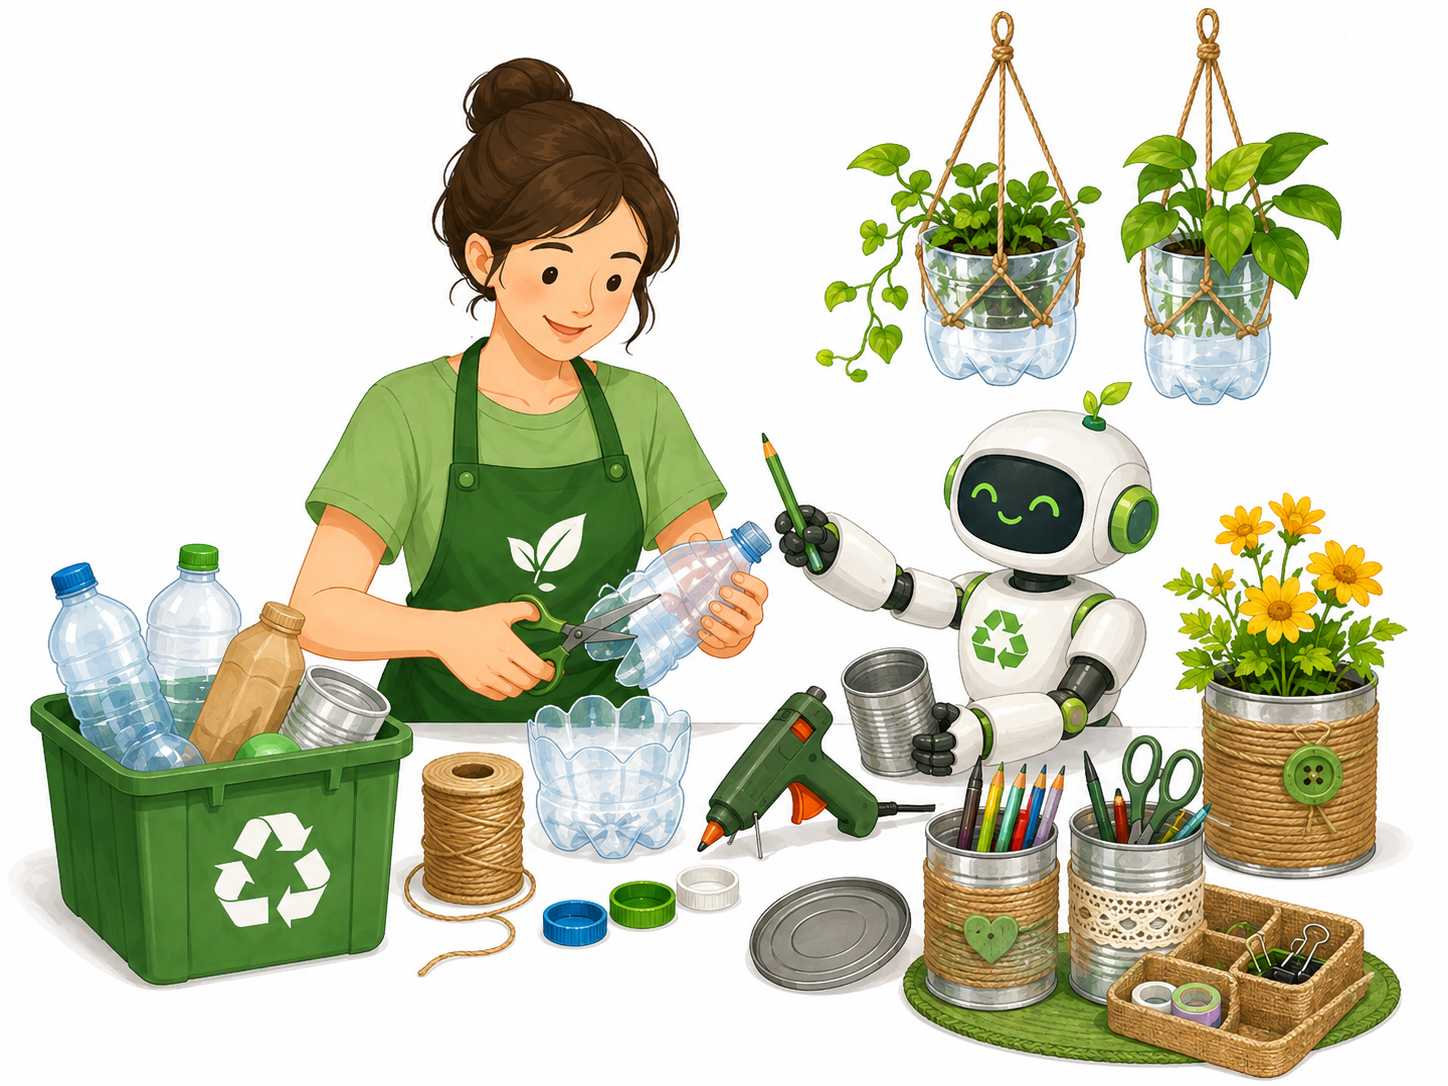
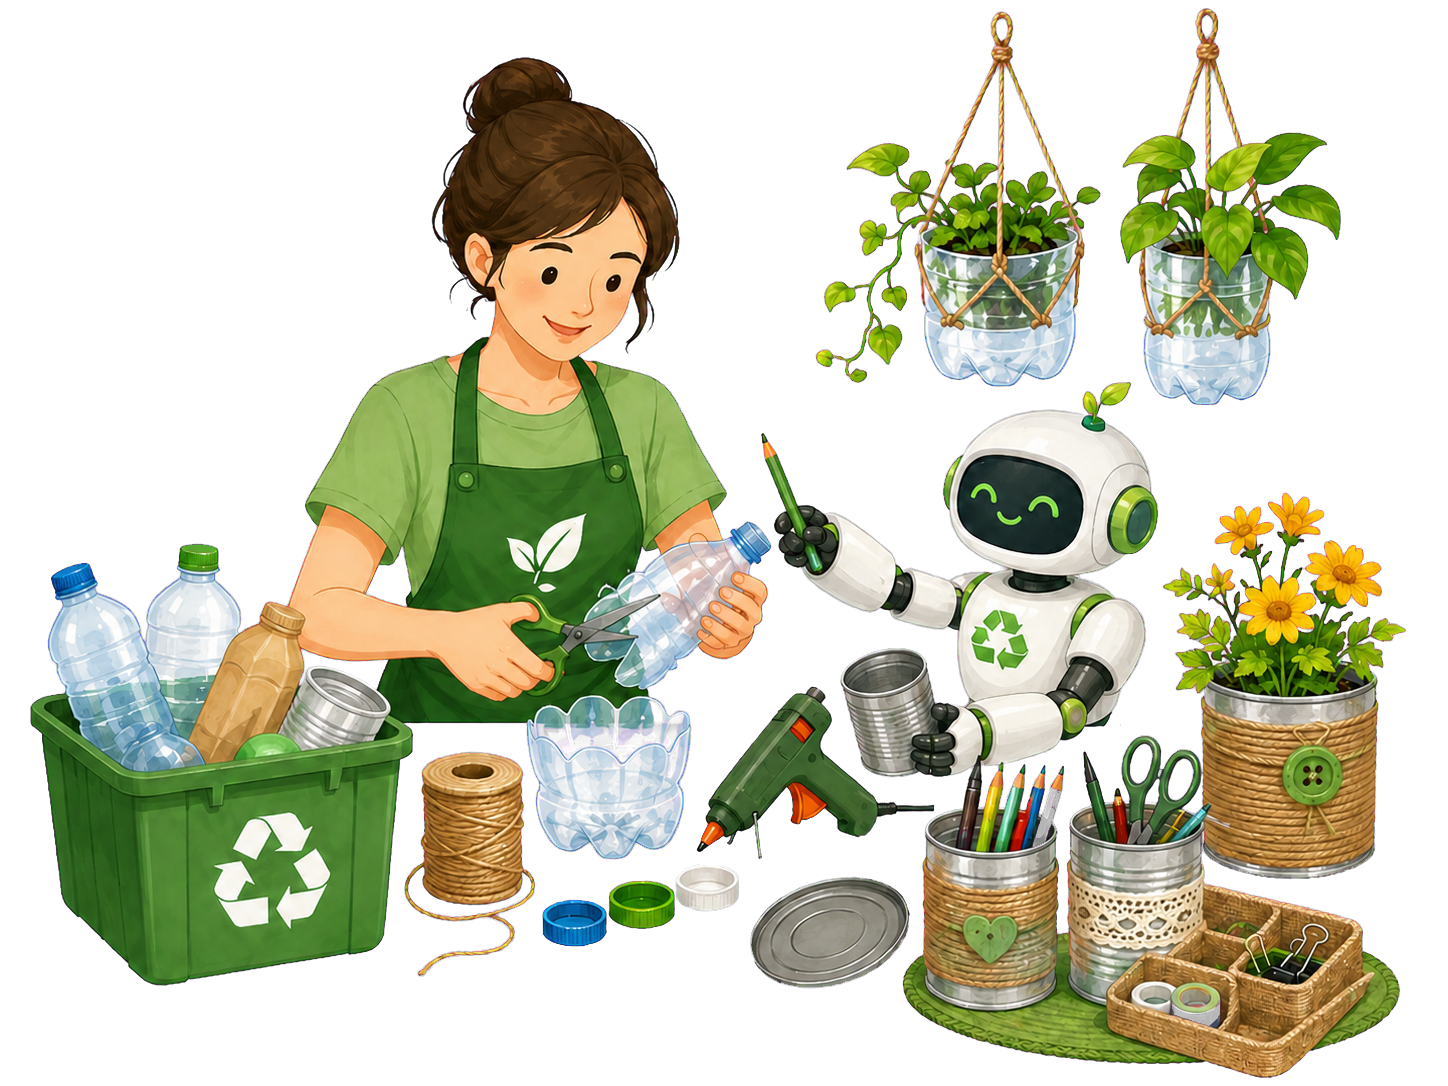
feat(ui): redesign scan tab button and refine upload/tutorial layouts
- tab bar: scan button overflows above bar, forwards pressable props
- upload screen: cover image extends past top, bottom art translateY 72,
  choice buttons flex-fix, sheet radius tweaks
- root layout: register missing Inter font weights
- types: allow tabBarItemStyle in expo-router options
- refresh upload bottom background images

diff --git a/app/scan/upload.tsx b/app/scan/upload.tsx
@@ -121,7 +121,13 @@ export default function UploadScreen() {
           source={require("../../assets/images/upload-screen-bg.png")}
           resizeMode="cover"
           accessibilityIgnoresInvertColors
-          style={{ position: "absolute", top: -128, left: 0, width: "100%", height: screenHeight }}
+          style={{
+            position: "absolute",
+            top: -128,
+            left: 0,
+            width: "100%",
+            height: screenHeight + 128,
+          }}
         />
         {!image ? (
           <Image
@@ -148,7 +154,7 @@ export default function UploadScreen() {
               bottom: 0,
               width: "94%",
               height: screenWidth * 0.94 * (941 / 1672),
-              transform: [{ translateY: 40 }],
+              transform: [{ translateY: 72 }],
             }}
           />
         ) : null}
@@ -300,45 +306,59 @@ export default function UploadScreen() {
                   { mode: "camera" as const, label: "Kamera", caption: "Ambil foto sekarang", icon: Camera },
                   { mode: "gallery" as const, label: "Galeri", caption: "Pilih dari galeri", icon: ImageIcon },
                 ].map((option) => (
-                  <PressableScale
+                  <View
                     key={option.mode}
-                    onPress={() => pickImage(option.mode)}
-                    accessibilityLabel={option.mode === "camera" ? "Ambil foto dengan kamera" : "Pilih foto dari galeri"}
-                    style={{
-                      flex: 1,
-                      height: 136,
-                      borderRadius: 22,
-                      borderCurve: "continuous",
-                      alignItems: "center",
-                      justifyContent: "center",
-                      gap: 8,
-                      backgroundColor: "rgba(42,94,55,0.92)",
-                      ...gradientStyle(gradients.uploadChoice),
-                      borderWidth: 1,
-                      borderColor: "rgba(205,239,146,0.43)",
-                      boxShadow: "inset 0 1px 0 rgba(243,255,221,0.12), 0 7px 15px rgba(7,39,21,0.2)",
-                    }}
+                    style={{ flex: 1, flexBasis: 0, minWidth: 0 }}
                   >
-                    <View
+                    <PressableScale
+                      onPress={() => pickImage(option.mode)}
+                      accessibilityLabel={option.mode === "camera" ? "Ambil foto dengan kamera" : "Pilih foto dari galeri"}
                       style={{
-                        width: 58,
-                        height: 58,
-                        borderRadius: 29,
+                        width: "100%",
+                        height: 136,
+                        borderRadius: 22,
+                        borderCurve: "continuous",
+                        overflow: "hidden",
                         alignItems: "center",
                         justifyContent: "center",
-                        backgroundColor: "rgba(91,148,80,0.5)",
+                        gap: 8,
+                        backgroundColor: "rgba(42,94,55,0.92)",
+                        ...gradientStyle(gradients.uploadChoice),
                         borderWidth: 1,
-                        borderColor: "rgba(217,245,166,0.34)",
-                        boxShadow: "inset 0 1px 0 rgba(255,255,255,0.16)",
+                        borderColor: "rgba(205,239,146,0.43)",
+                        boxShadow: "inset 0 1px 0 rgba(243,255,221,0.12), 0 7px 15px rgba(7,39,21,0.2)",
                       }}
                     >
-                      <option.icon size={25} color={colors.white} strokeWidth={1.9} />
-                    </View>
-                    <Text style={{ color: colors.white, fontFamily: "Manrope_700Bold", fontSize: 13 }}>{option.label}</Text>
-                    <Text style={{ color: "rgba(255,255,255,0.66)", fontFamily: "Manrope_400Regular", fontSize: 9.5 }}>
-                      {option.caption}
-                    </Text>
-                  </PressableScale>
+                      <View
+                        style={{
+                          width: 58,
+                          height: 58,
+                          borderRadius: 29,
+                          alignItems: "center",
+                          justifyContent: "center",
+                          backgroundColor: "rgba(91,148,80,0.5)",
+                          borderWidth: 1,
+                          borderColor: "rgba(217,245,166,0.34)",
+                          boxShadow: "inset 0 1px 0 rgba(255,255,255,0.16)",
+                        }}
+                      >
+                        <option.icon size={25} color={colors.white} strokeWidth={1.9} />
+                      </View>
+                      <Text style={{ color: colors.white, fontFamily: "Manrope_700Bold", fontSize: 13 }}>{option.label}</Text>
+                      <Text
+                        numberOfLines={1}
+                        style={{
+                          width: "100%",
+                          color: "rgba(255,255,255,0.66)",
+                          fontFamily: "Manrope_400Regular",
+                          fontSize: 9.5,
+                          textAlign: "center",
+                        }}
+                      >
+                        {option.caption}
+                      </Text>
+                    </PressableScale>
+                  </View>
                 ))}
               </View>
             </View>

diff --git a/app/(tabs)/_layout.tsx b/app/(tabs)/_layout.tsx
@@ -1,42 +1,56 @@
 import React from "react";
-import { Pressable, View } from "react-native";
-import { Tabs, useRouter } from "expo-router";
+import { Pressable, View, type PressableProps, type StyleProp, type ViewStyle } from "react-native";
+import { Tabs } from "expo-router";
 import { Camera, History, Home, Leaf, User } from "lucide-react-native";
 import { colors, gradients, gradientStyle } from "../../src/theme";
 import { useReducedMotion } from "../../src/hooks/useReducedMotion";
 
-function ScanTabButton() {
-  const router = useRouter();
+type ScanTabButtonProps = {
+  onPress?: PressableProps["onPress"];
+  onLongPress?: PressableProps["onLongPress"];
+  style?: StyleProp<ViewStyle>;
+  testID?: string;
+};
 
+function ScanTabButton({ onPress, onLongPress, style, testID }: ScanTabButtonProps) {
   return (
     <Pressable
       accessibilityRole="button"
       accessibilityLabel="Scan sampah"
-      onPress={() => router.push("/scan/upload")}
-      style={({ pressed }) => ({
-        flex: 1,
-        alignItems: "center",
-        justifyContent: "center",
-        transform: [{ translateY: -13 }, { scale: pressed ? 0.95 : 1 }],
-      })}
-    >
-      <View
-        style={{
-          width: 58,
-          height: 58,
-          borderRadius: 29,
+      onPress={onPress}
+      onLongPress={onLongPress}
+      testID={testID}
+      style={() => [
+        style,
+        {
           alignItems: "center",
-          justifyContent: "center",
-          backgroundColor: colors.forest700,
-          ...gradientStyle(gradients.tabCamera),
-          borderWidth: 2,
-          borderColor: "rgba(224,248,190,0.52)",
-          boxShadow:
-            "inset 0 1px 0 rgba(250,255,241,0.34), 0 5px 4px rgba(0,12,7,0.34), 0 15px 24px rgba(0,8,4,0.52)",
-        }}
-      >
-        <Camera size={24} color={colors.cream50} strokeWidth={2.2} />
-      </View>
+          justifyContent: "flex-start",
+          overflow: "visible",
+        },
+      ]}
+    >
+      {({ pressed }) => (
+        <View
+          style={{
+            position: "absolute",
+            top: -34,
+            width: 58,
+            height: 58,
+            borderRadius: 29,
+            alignItems: "center",
+            justifyContent: "center",
+            backgroundColor: colors.forest700,
+            ...gradientStyle(gradients.tabCamera),
+            borderWidth: 2,
+            borderColor: "rgba(224,248,190,0.52)",
+            boxShadow:
+              "inset 0 1px 0 rgba(250,255,241,0.34), 0 5px 4px rgba(0,12,7,0.34), 0 15px 24px rgba(0,8,4,0.52)",
+            transform: [{ scale: pressed ? 0.95 : 1 }],
+          }}
+        >
+          <Camera size={24} color={colors.cream50} strokeWidth={2.2} />
+        </View>
+      )}
     </Pressable>
   );
 }
@@ -70,7 +84,9 @@ export default function TabLayout() {
           ...gradientStyle(gradients.tabNavigation),
           boxShadow:
             "inset 0 1px 0 rgba(239,255,224,0.13), 0 -10px 28px rgba(4,20,11,0.18), 0 14px 30px rgba(0,0,0,0.22)",
+          overflow: "visible",
         },
+        tabBarItemStyle: { overflow: "visible" },
         tabBarLabelStyle: {
           fontSize: 10,
           fontFamily: "Inter_600SemiBold",
@@ -92,7 +108,14 @@ export default function TabLayout() {
           tabBarIcon: ({ color, size }) => <History size={size - 1} color={color} strokeWidth={2.2} />,
         }}
       />
-      <Tabs.Screen name="scan" options={{ title: "", tabBarButton: () => <ScanTabButton /> }} />
+      <Tabs.Screen
+        name="scan"
+        options={{
+          title: "",
+          tabBarButton: (props) => <ScanTabButton {...(props as ScanTabButtonProps)} />,
+          tabBarItemStyle: { overflow: "visible" },
+        }}
+      />
       <Tabs.Screen
         name="impact"
         options={{

diff --git a/app/(tabs)/index.tsx b/app/(tabs)/index.tsx
@@ -231,10 +231,13 @@ export default function HomeScreen() {
               accessibilityIgnoresInvertColors
               style={{
                 position: "absolute",
-                inset: 0,
+                top: 0,
+                right: 0,
+                bottom: 0,
+                left: 0,
                 width: "100%",
                 height: "100%",
-                opacity: 1,
+                transform: [{ scale: 1.08 }],
               }}
             />
             <View
@@ -328,7 +331,7 @@ export default function HomeScreen() {
             }}
           >
             {actions.map((action) => (
-              <View key={action.label} style={{ flex: 1 }}>
+              <View key={action.label} style={{ flex: 1, flexBasis: 0, minWidth: 0 }}>
                 <PressableScale
                   accessibilityLabel={action.label}
                   onPress={() => router.push(action.route)}
@@ -371,7 +374,19 @@ export default function HomeScreen() {
                       strokeWidth={1.8}
                     />
                   </View>
-                  <Text style={{ color: colors.white, fontSize: 11, fontFamily: "Inter_600SemiBold" }}>
+                  <Text
+                    numberOfLines={1}
+                    style={{
+                      width: "100%",
+                      height: 16,
+                      color: colors.white,
+                      fontSize: 11,
+                      lineHeight: 16,
+                      fontFamily: "Inter_600SemiBold",
+                      textAlign: "center",
+                      includeFontPadding: false,
+                    }}
+                  >
                     {action.label}
                   </Text>
                 </PressableScale>
@@ -385,8 +400,8 @@ export default function HomeScreen() {
             minHeight: 430,
             backgroundColor: colors.cream50,
             ...gradientStyle(gradients.contentSheet),
-            borderTopLeftRadius: radii.sheet,
-            borderTopRightRadius: radii.sheet,
+            borderTopLeftRadius: 18,
+            borderTopRightRadius: 18,
             borderCurve: "continuous",
             paddingHorizontal: 20,
             paddingTop: 24,
@@ -399,7 +414,7 @@ export default function HomeScreen() {
             pointerEvents="none"
             style={{
               position: "absolute",
-              top: -5,
+              top: 8,
               alignSelf: "center",
               width: 34,
               height: 7,

diff --git a/app/_layout.tsx b/app/_layout.tsx
@@ -9,6 +9,11 @@ import {
   Manrope_700Bold,
   Manrope_800ExtraBold,
 } from "@expo-google-fonts/manrope";
+import {
+  Inter_500Medium,
+  Inter_600SemiBold,
+  Inter_700Bold,
+} from "@expo-google-fonts/inter";
 import { ErrorBoundary } from "../src/components/ErrorBoundary";
 import { seedDemoDataIfNeeded } from "../src/services/demoSeed";
 import { RootStack, RootStackScreen } from "../src/navigation/root-stack";
@@ -24,6 +29,9 @@ export default function RootLayout() {
     Manrope_600SemiBold,
     Manrope_700Bold,
     Manrope_800ExtraBold,
+    Inter_500Medium,
+    Inter_600SemiBold,
+    Inter_700Bold,
   });
 
   useEffect(() => {

diff --git a/app/product/[id]/tutorial.tsx b/app/product/[id]/tutorial.tsx
@@ -77,11 +77,7 @@ export default function TutorialScreen() {
             paddingHorizontal: 18,
             paddingTop: 18,
             paddingBottom: 46,
-            borderTopLeftRadius: 28,
-            borderTopRightRadius: 28,
-            borderCurve: "continuous",
-            backgroundColor: colors.cream50,
-            ...gradientStyle(gradients.contentSheet),
+            backgroundColor: "transparent",
           }}
         >
         <View

diff --git a/src/types/expo-router.d.ts b/src/types/expo-router.d.ts
@@ -9,6 +9,7 @@ declare module "expo-router" {
     tabBarActiveTintColor?: string;
     tabBarInactiveTintColor?: string;
     tabBarStyle?: Record<string, unknown>;
+    tabBarItemStyle?: Record<string, unknown>;
     tabBarLabelStyle?: Record<string, unknown>;
     contentStyle?: Record<string, unknown>;
     animation?:
